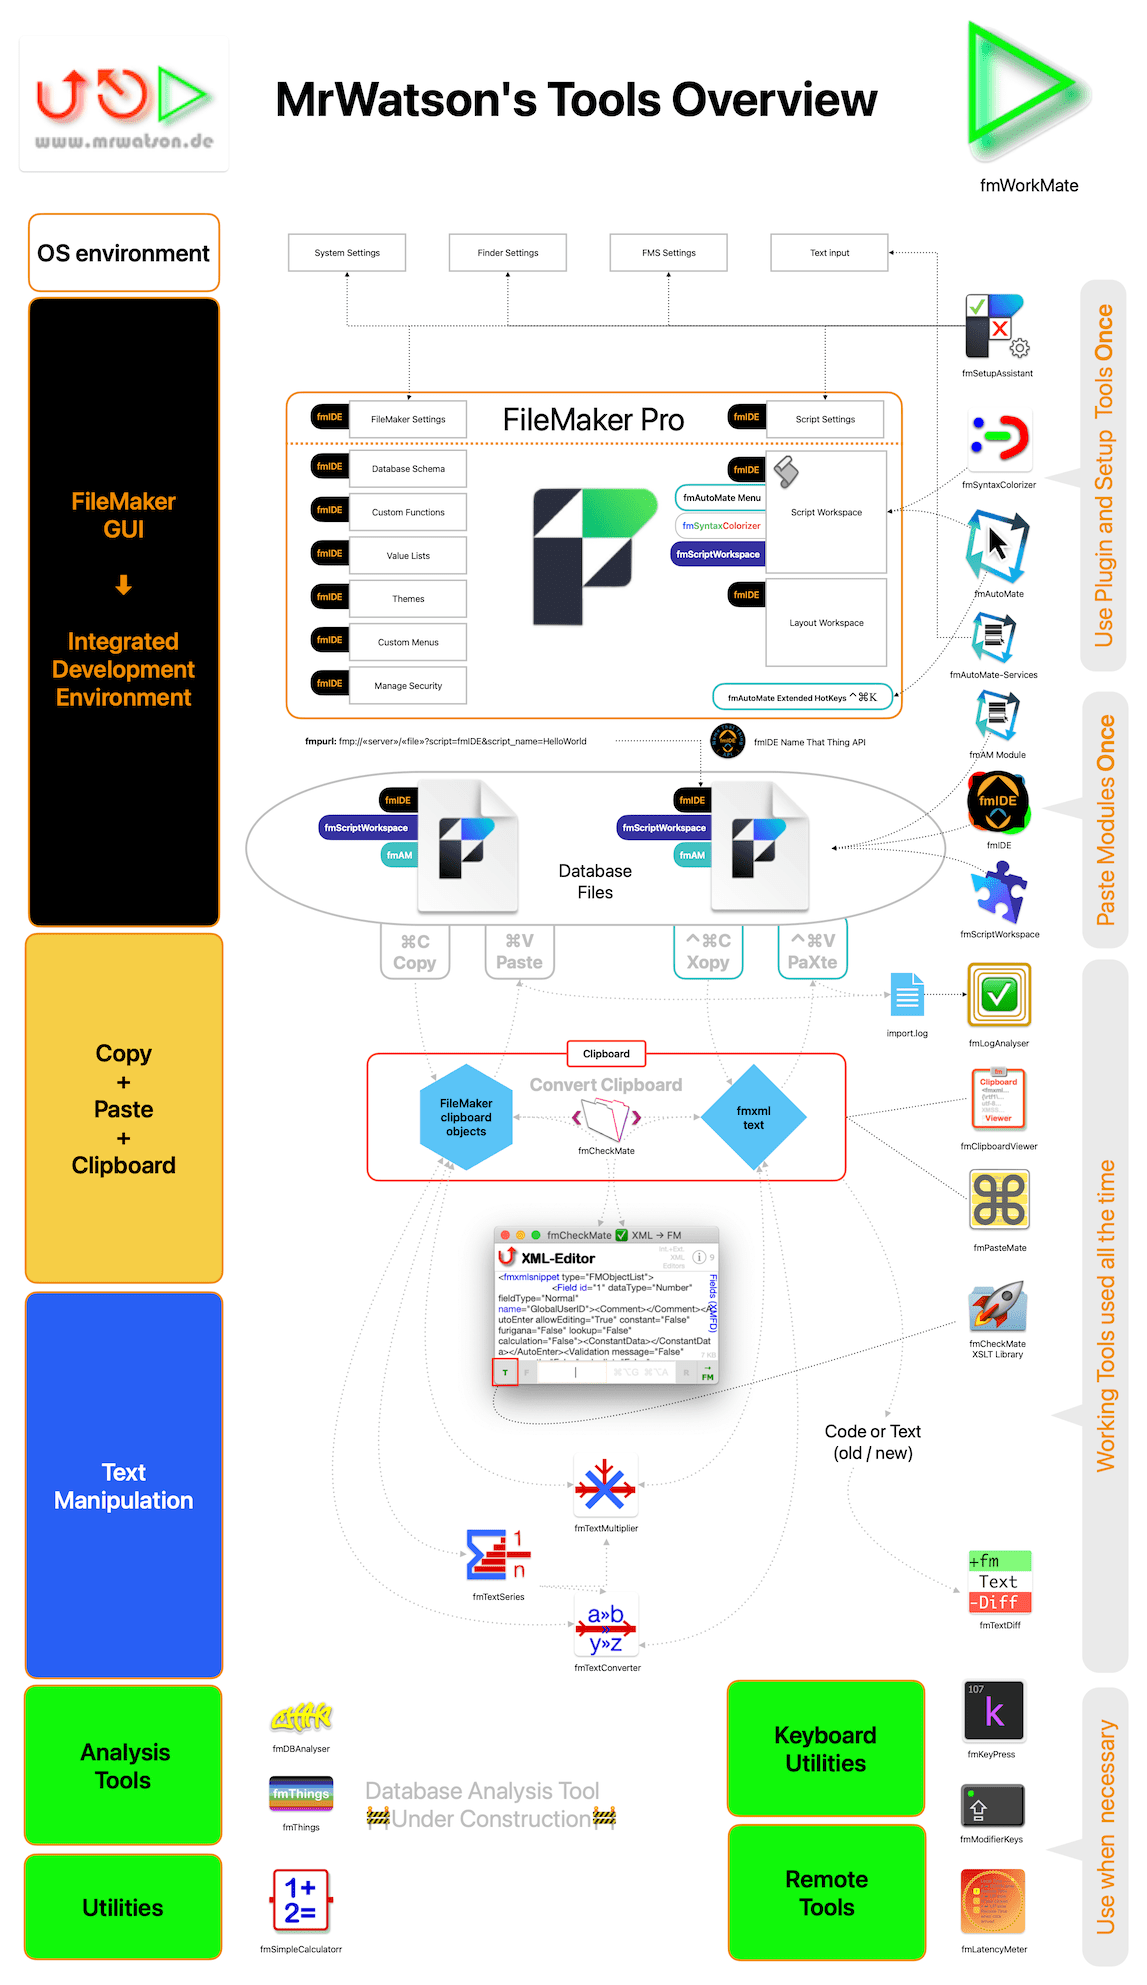
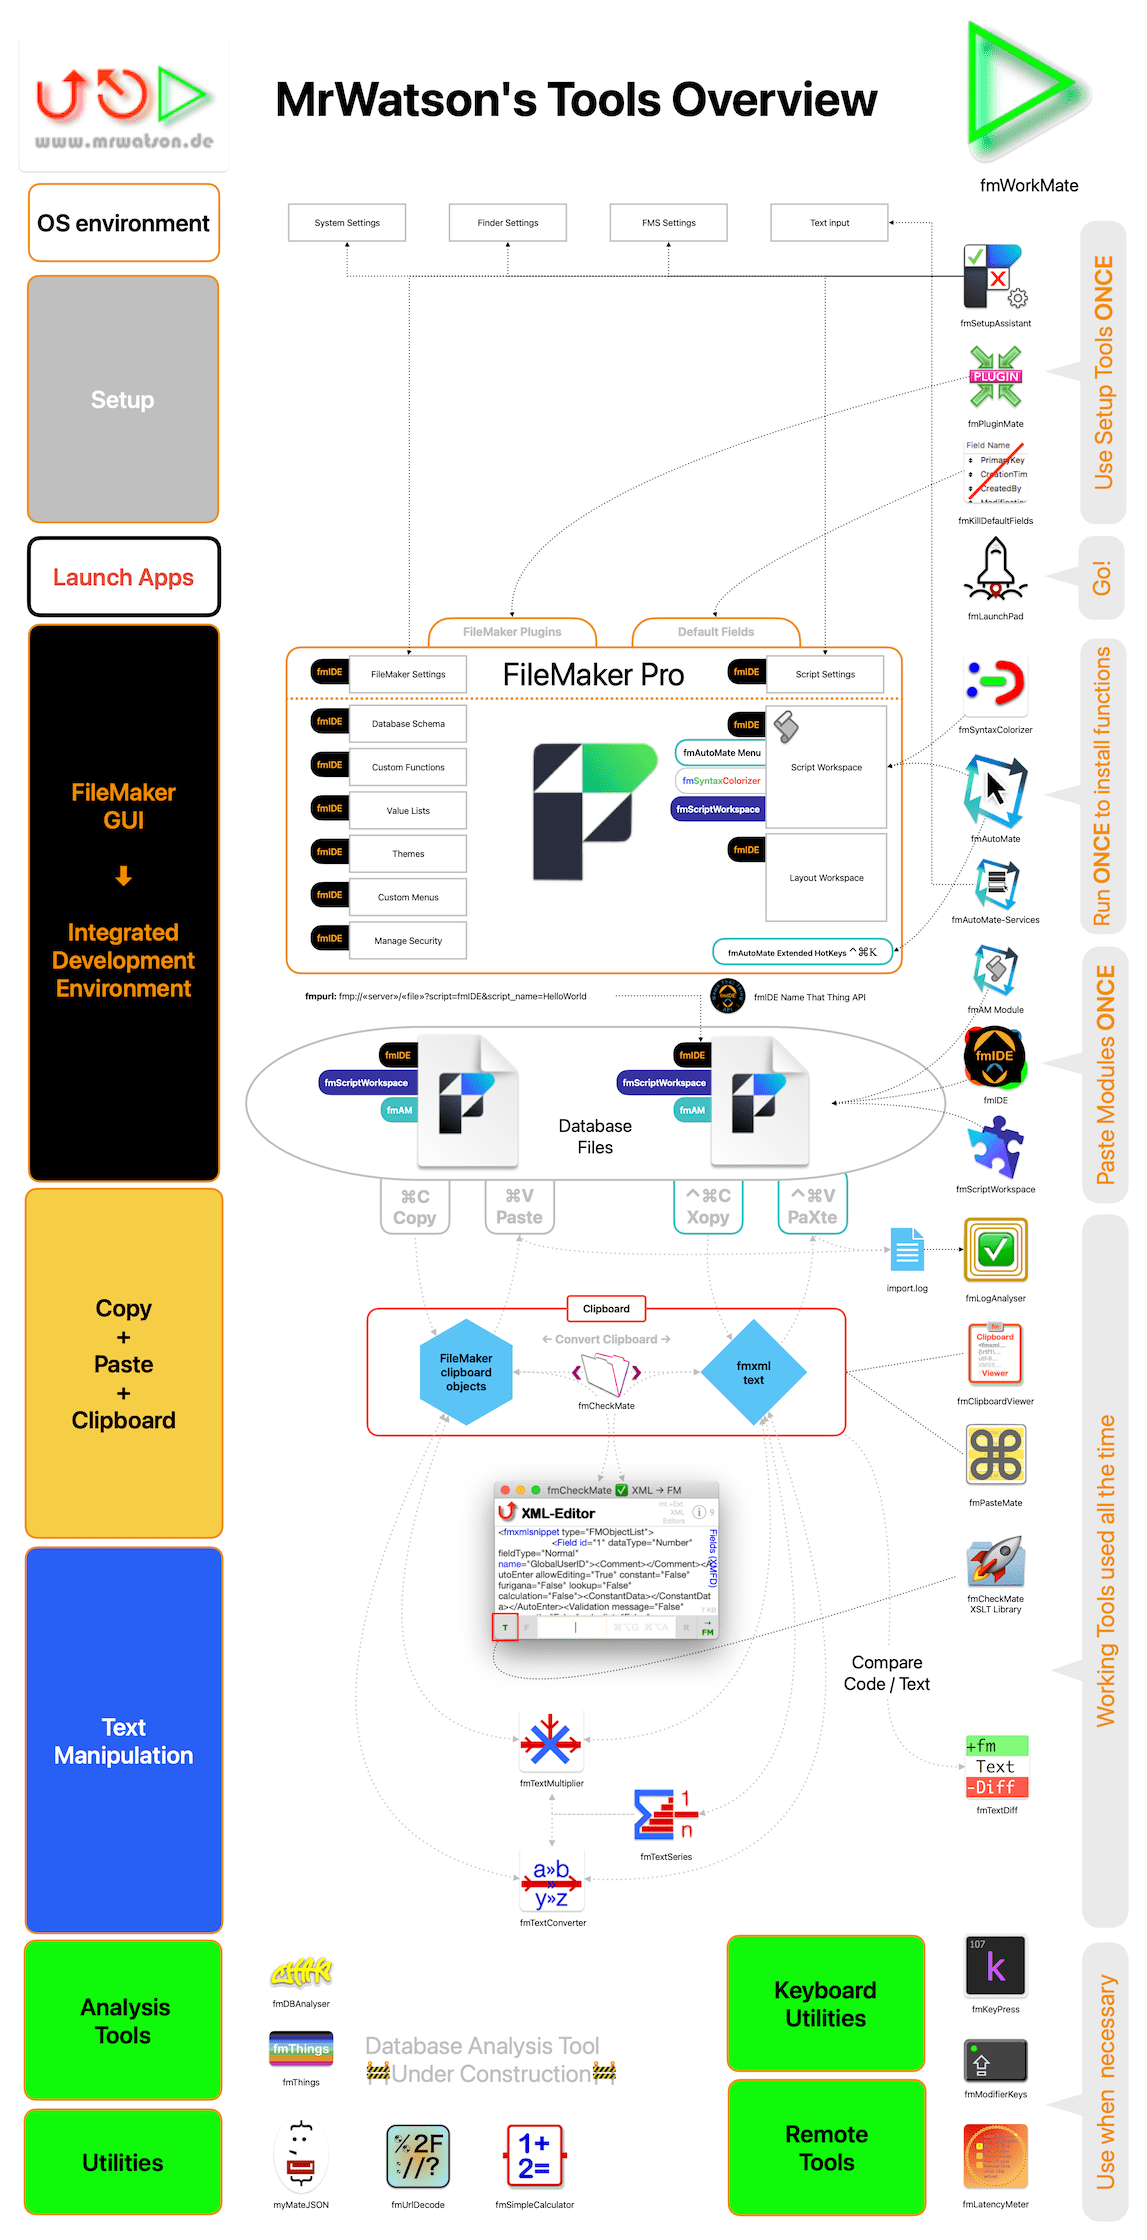
Better seperate overview

diff --git a/mrwatsons-tools.md b/mrwatsons-tools.md
@@ -4,10 +4,21 @@ strapline: FileMaker Tools from one FM Dev to all the others
 nav_order: 1010
 layout: default
 ---
+1. TOC
+{:toc}
+
 {% include page-image.html width="500" %}
 
 ## {{page.title}}
 
 {{page.strapline}}
 
-… not just a set of tools, but a [system of integrated tools](a-system-of-integrated-tools.html) that work together to solve your problems and make your life easier.
+MrWatson's Tools are not just a random set of tools, but a [system of integrated tools](a-system-of-integrated-tools.html) that work together to [solve your problems](solutions-to-daily-problems.html) and [make your life easier](why-mrwatsons-tools.html#fun).
+
+### Overview
+
+To help you understand where the tools fit into the FileMaker development ecosystem, and how they work together, here is a schematic overview:
+
+
+{: .fullwidth}
+![Overview of MrWatson's Tools](/assets/images/mrwatsons-tools-overview-2025.png)

diff --git a/a-system-of-integrated-tools.md b/a-system-of-integrated-tools.md
@@ -24,10 +24,4 @@ The tools can solve problems
 - during deployment and patching
 - with integrating documentation
 
-## MrWatson's Tools Overview
-
-To help you understand where the tools fit into the FileMaker development ecosystem, and how they work together, here is a schematic overview:
-
-
-{: .fullwidth}
-![Overview of MrWatson's Tools](/assets/images/mrwatsons-tools-overview-2025.png)
+They have [common navigation](navigation-menus-keys.html), a kind of geeky common look and feel, they are designed to work together efficiently.
